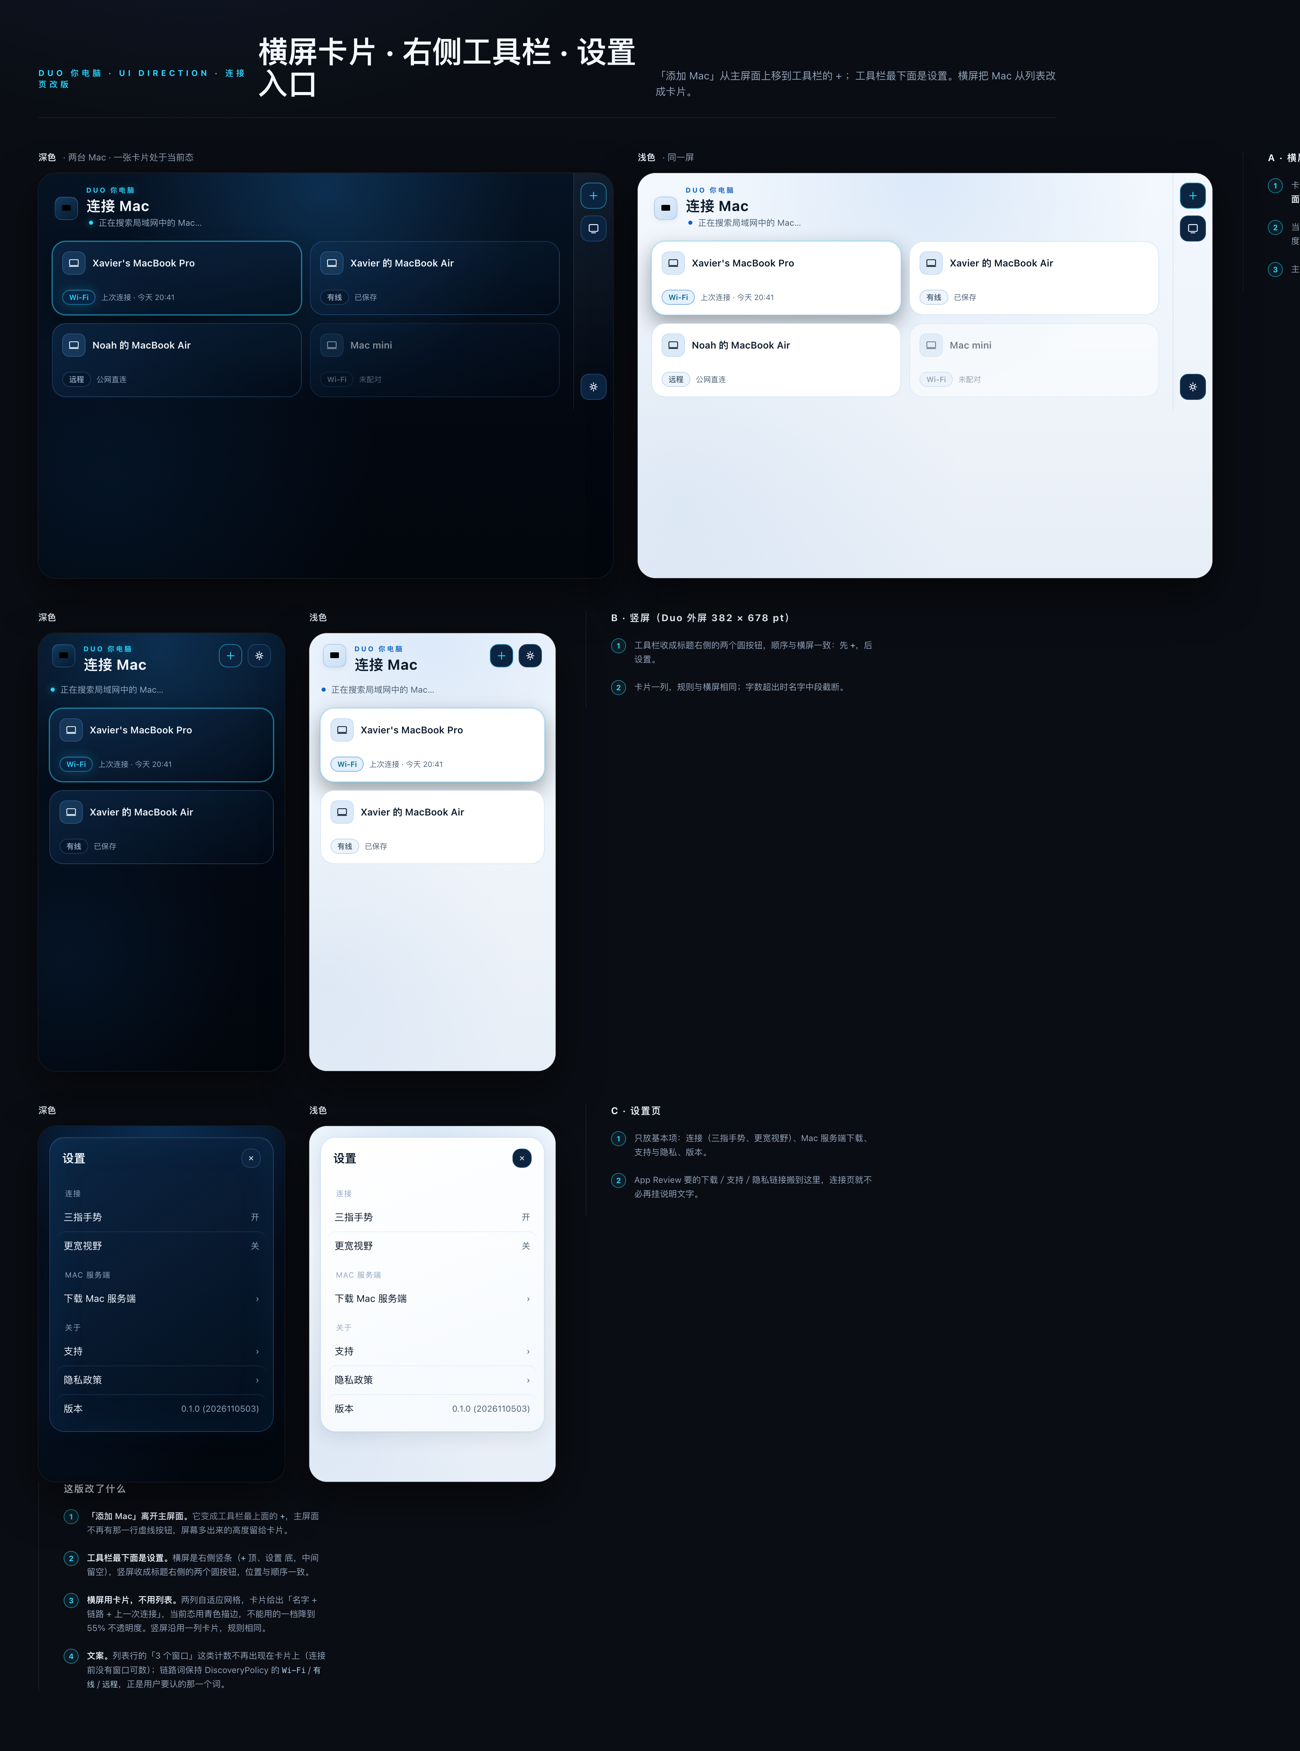
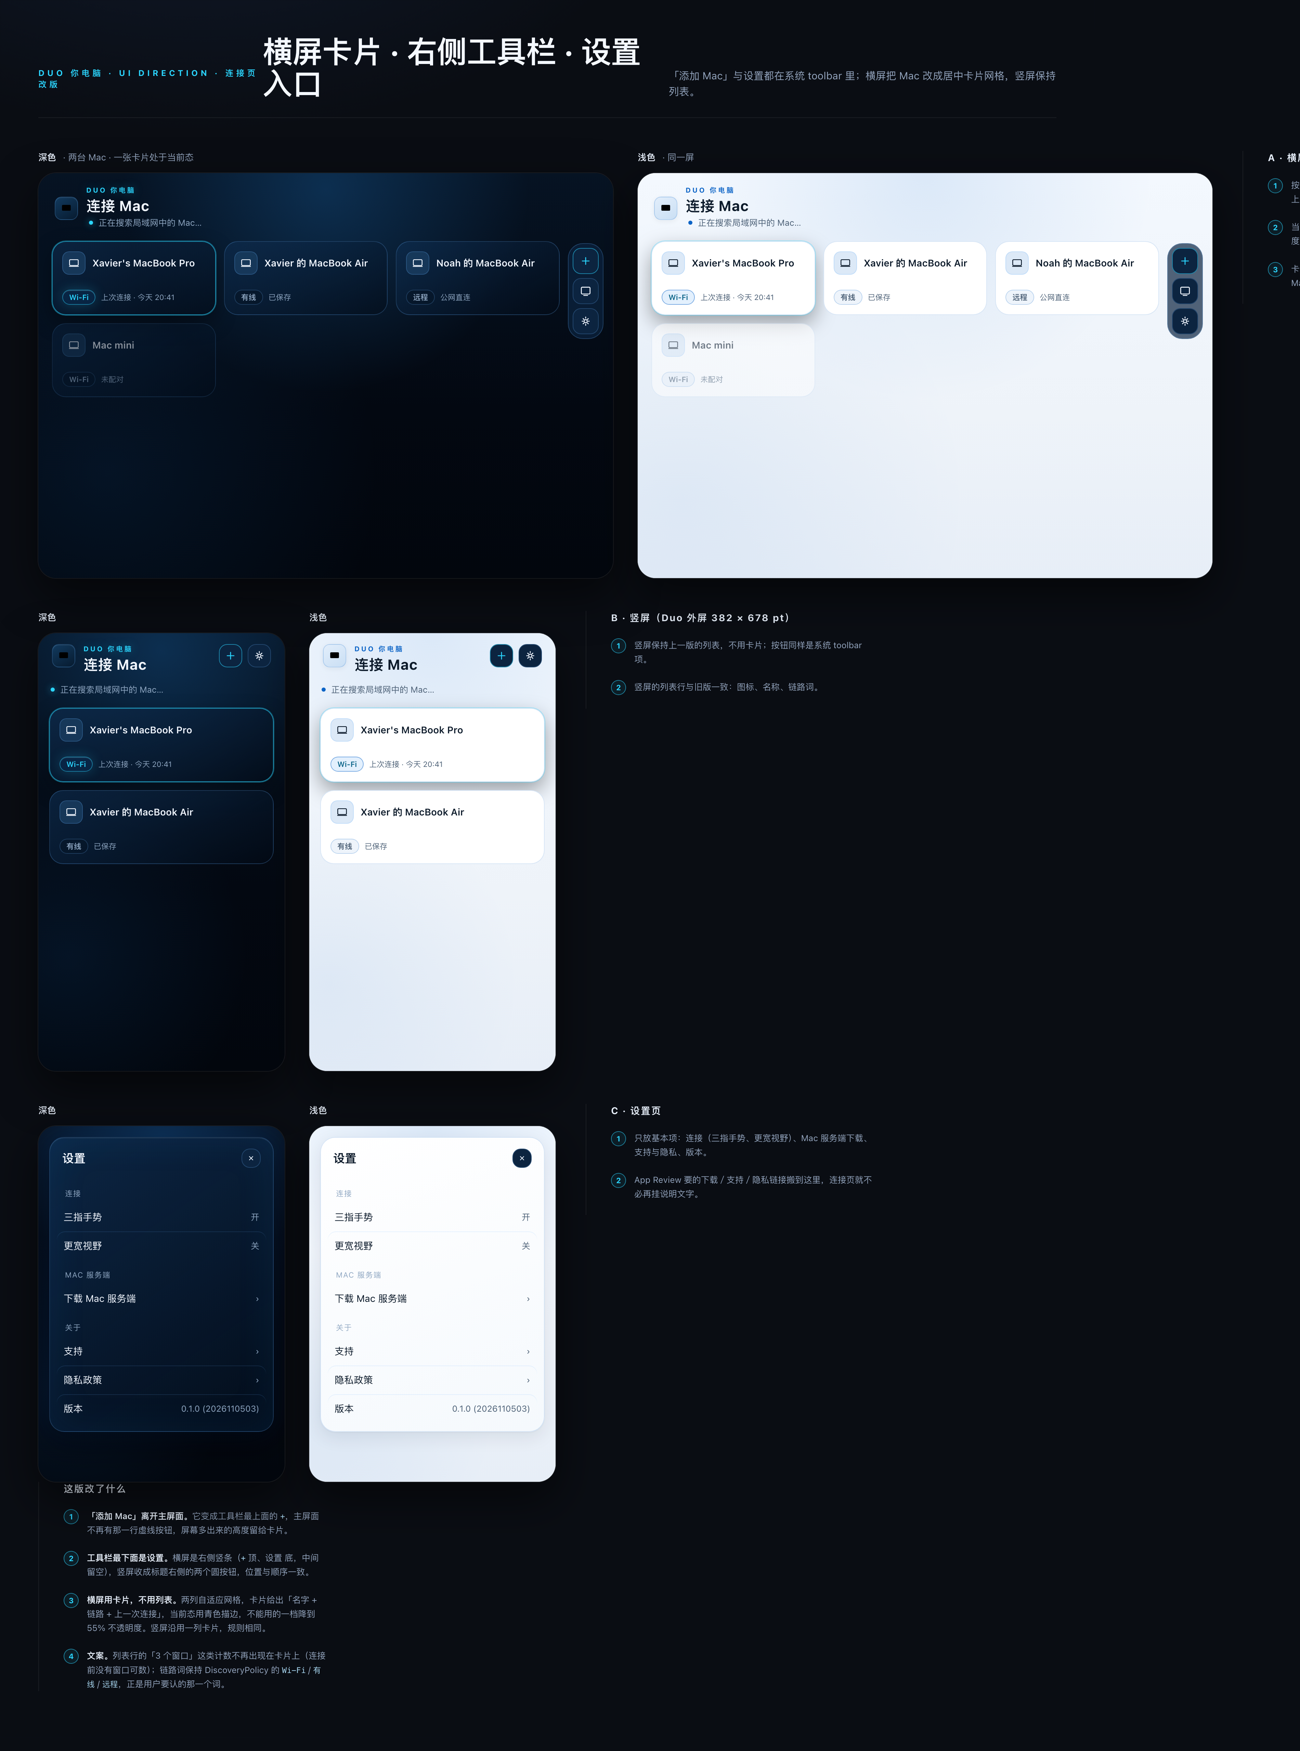
Landscape-only cards, and the buttons in the platform toolbar
Three corrections to the connect screen:

- Cards are landscape only. Upright keeps the list it has always had, one
  frosted row per Mac.
- Pairing and settings are toolbar items now, so the platform draws them —
  on iOS 27 a floating capsule on the trailing edge. The custom strip beside
  the content is gone: it was a second sidebar next to the system one.
- The grid is centred and capped at 900 pt, three cards across (four on a
  wide screen) instead of two cards stretched across the display.

The settings sheet gains the one preference that really is per-device — the
frame rate this device asks for. Quality and resolution stay the Mac's, set
from the stream screen's panel, and the sheet says so.

diff --git a/iOSClient/ContentView.swift b/iOSClient/ContentView.swift
@@ -963,6 +963,7 @@ struct ConnectScreen: View {
     private static let linkReach: CGFloat = 14
 
     var body: some View {
+        NavigationStack {
         GeometryReader { geo in
             let posture = DuoPosture.read(geo, duoEnvironment)
             let layout = ConnectLayout(size: geo.size, fold: posture.info(in: geo.size))
@@ -977,7 +978,6 @@ struct ConnectScreen: View {
             // keeps its header and foot. One scroll view whatever the fit, so a fit that changes
             // (the card's words folding while a field has the keyboard, a row more) never builds
             // the column anew: the card keeps its fields and its camera.
-            HStack(spacing: 0) {
             VStack(spacing: 0) {
                 ScrollView(.vertical) {
                     ColumnOverFooter(
@@ -996,7 +996,7 @@ struct ConnectScreen: View {
                             // Placed by its leading edge, not centred: the side-by-side card is wider
                             // than the rows, and centring it moved the title sideways as the card
                             // unfolded.
-                            .padding(.leading, layout.columnX)
+                            .padding(.leading, carded ? layout.columnX : layout.contentLeading)
                             .frame(maxWidth: .infinity, alignment: .leading)
                         // The footer's height, measured here; the one shown is the one below.
                         footer(layout)
@@ -1030,10 +1030,29 @@ struct ConnectScreen: View {
                         .accessibilityHidden(true)
                 }
             }
-            if layout.usesToolbarStrip { connectToolbar }
-            }
             .background(PageBackground())
             .duoLog(posture, size: geo.size, screen: "connect screen")
+            // Pairing and settings are toolbar items, as the platform draws them — not a
+            // strip of our own beside the content.
+            .toolbar {
+                ToolbarItemGroup(placement: .topBarTrailing) {
+                    Button(action: unfold) {
+                        Image(systemName: "plus")
+                            .font(.system(size: 16, weight: .semibold))
+                    }
+                    .accessibilityLabel("添加 Mac")
+                    .accessibilityHint("使用 Mac 上的配对码建立连接")
+
+                    Button { showSettings = true } label: {
+                        Image(systemName: "gearshape")
+                            .font(.system(size: 16, weight: .medium))
+                    }
+                    .accessibilityLabel("设置")
+                }
+            }
+            .toolbarBackground(.hidden, for: .navigationBar)
+            .navigationBarTitleDisplayMode(.inline)
+        }
         }
         .ignoresSafeArea(.keyboard, edges: .bottom)
         .sheet(isPresented: $showSettings) {
@@ -1109,13 +1128,6 @@ struct ConnectScreen: View {
                         .accessibilityAddTraits(.isHeader)
                         .accessibilityFocused($titleFocused)
                 }
-                if !carded && client.pendingLink == nil && !layout.usesToolbarStrip {
-                    Spacer(minLength: 8)
-                    HStack(spacing: 8) {
-                        addMacButton(34)
-                        settingsButton(34)
-                    }
-                }
             }
             .padding(.horizontal, 10)
             .padding(.bottom, carded ? 0 : 8)
@@ -1172,27 +1184,46 @@ struct ConnectScreen: View {
             .accessibilityHint("打开 App Store。")
         }
 
-        LazyVGrid(columns: Array(repeating: GridItem(.flexible(), spacing: 12),
-                                 count: layout.cardColumns),
-                  spacing: 12) {
-        ForEach(client.macs) { mac in
-            // The kind of link, never the Wi-Fi network's name: that needs Location access, which
-            // Sill does not ask for (DiscoveryPolicy.method); "Remote" for a saved Mac dialed away
-            // from home; at home, what a tap does first when it pairs ("Not paired", "Wired" over
-            // the cable) or cannot connect ("Update Sill"), with VoiceOver's label and hint for it
-            // (DiscoveryPolicy.RowWord). The row a tap's ask is waiting on is lit, as the drawer
-            // lights the app on screen, while the status line says "Pairing with…".
-            MacCard(name: mac.name, word: mac.word,
-                    saved: mac.macID.map { client.savedMac($0) != nil } ?? false,
-                    highlighted: client.homeAsk.map { $0.phase == .asking && $0.target.row == mac.id } ?? false,
-                    dimmed: mac.macID == nil,
-                    action: { client.connect(to: mac) })
-                .accessibilityElement(children: .ignore)
-                .accessibilityLabel(mac.rowAccessibilityLabel)
-                .accessibilityHint(mac.rowAccessibilityHint(device: device))
-                .accessibilityAddTraits(.isButton)
-                .contextMenu { menu(for: mac) }
-        }
+        if layout.landscape {
+            // Landscape: cards, centred, a few across (the design draft's grid).
+            LazyVGrid(columns: Array(repeating: GridItem(.flexible(), spacing: 12),
+                                     count: layout.cardColumns),
+                      spacing: 12) {
+                ForEach(client.macs) { mac in
+                    MacCard(name: mac.name, word: mac.word,
+                            saved: mac.macID.map { client.savedMac($0) != nil } ?? false,
+                            highlighted: client.homeAsk.map { $0.phase == .asking && $0.target.row == mac.id } ?? false,
+                            dimmed: mac.macID == nil,
+                            action: { client.connect(to: mac) })
+                        .accessibilityElement(children: .ignore)
+                        .accessibilityLabel(mac.rowAccessibilityLabel)
+                        .accessibilityHint(mac.rowAccessibilityHint(device: device))
+                        .accessibilityAddTraits(.isButton)
+                        .contextMenu { menu(for: mac) }
+                }
+            }
+        } else {
+            // Upright: the list it has always been — one row per Mac in the frosted panel.
+            VStack(spacing: 2) {
+                ForEach(client.macs) { mac in
+                    DrawerRow(height: 50, highlighted: client.homeAsk.map { $0.phase == .asking && $0.target.row == mac.id } ?? false,
+                              title: mac.name, trailing: mac.word,
+                              action: { client.connect(to: mac) }) {
+                        ZStack {
+                            RoundedRectangle(cornerRadius: 9, style: .continuous).fill(Palette.iconFallback)
+                            Image(systemName: "desktopcomputer")
+                                .font(.system(size: 16))
+                                .foregroundStyle(.white)
+                        }
+                        .frame(width: 32, height: 32)
+                    }
+                    .accessibilityLabel(mac.rowAccessibilityLabel)
+                    .accessibilityHint(mac.rowAccessibilityHint(device: device))
+                    .contextMenu { menu(for: mac) }
+                }
+            }
+            .padding(6)
+            .glassPanel(22)
         }
 
         if client.showsNearbyHint {
@@ -1228,62 +1259,6 @@ struct ConnectScreen: View {
             }
         }
 
-    }
-
-    /// The toolbar's +: pairing lives off the main surface now (design/deep-blue-ui/connect-redesign.html).
-    private func addMacButton(_ size: CGFloat = 38) -> some View {
-        Button(action: unfold) {
-            Image(systemName: "plus")
-                .font(.system(size: 16, weight: .semibold))
-                .foregroundStyle(Palette.accent)
-                .frame(width: size, height: size)
-                .background(RoundedRectangle(cornerRadius: 12, style: .continuous).fill(Palette.control))
-                .overlay {
-                    RoundedRectangle(cornerRadius: 12, style: .continuous)
-                        .strokeBorder(Palette.stroke, lineWidth: 1)
-                }
-                .contentShape(RoundedRectangle(cornerRadius: 12, style: .continuous))
-        }
-        .buttonStyle(.plain)
-        .accessibilityLabel("添加 Mac")
-        .accessibilityHint("使用 Mac 上的配对码建立连接")
-    }
-
-    /// The toolbar's settings button, at the far end from the +.
-    private func settingsButton(_ size: CGFloat = 38) -> some View {
-        Button { showSettings = true } label: {
-            Image(systemName: "gearshape")
-                .font(.system(size: 16, weight: .medium))
-                .foregroundStyle(Palette.text)
-                .frame(width: size, height: size)
-                .background(RoundedRectangle(cornerRadius: 12, style: .continuous).fill(Palette.control))
-                .overlay {
-                    RoundedRectangle(cornerRadius: 12, style: .continuous)
-                        .strokeBorder(Palette.stroke, lineWidth: 1)
-                }
-                .contentShape(RoundedRectangle(cornerRadius: 12, style: .continuous))
-        }
-        .buttonStyle(.plain)
-        .accessibilityLabel("设置")
-    }
-
-    /// Landscape: a vertical strip down the trailing edge, + at the top and settings at the
-    /// bottom, the way the design draft lays it out.
-    private var connectToolbar: some View {
-        VStack(spacing: 10) {
-            addMacButton()
-            Spacer(minLength: 0)
-            settingsButton()
-        }
-        .padding(.vertical, 14)
-        .frame(width: 58)
-        .background {
-            LinearGradient(colors: [Palette.strokeSoft, .clear],
-                           startPoint: .top, endPoint: .bottom).opacity(0.5)
-                .overlay(alignment: .leading) {
-                    Rectangle().fill(Palette.divider).frame(width: 1)
-                }
-        }
     }
 
     private var connectionStatus: String {

diff --git a/design/deep-blue-ui/connect-redesign.html b/design/deep-blue-ui/connect-redesign.html
@@ -10,13 +10,15 @@
   .sheet .mocks { align-items: flex-start; }
 
   .cn { position: relative; display: flex; overflow: hidden; }
-  .cn-main { flex: 1; min-width: 0; padding: 18px 20px; display: flex; flex-direction: column; gap: 14px; }
+  .cn-main { flex: 1; min-width: 0; padding: 18px 20px; padding-right: 78px; display: flex; flex-direction: column; gap: 14px; }
+  /* 系统工具栏：右侧悬浮胶囊，不占版面、也不自己造一条侧边栏 */
   .cn-toolbar {
-    flex: none; width: 58px; display: flex; flex-direction: column; align-items: center;
-    gap: 10px; padding: 14px 0; border-left: 1px solid var(--stroke-soft, rgba(105,180,255,.14));
-    background: linear-gradient(180deg, rgba(255,255,255,.05), rgba(255,255,255,0));
+    position: absolute; right: 14px; top: 50%; transform: translateY(-50%);
+    display: flex; flex-direction: column; align-items: center; gap: 6px; padding: 6px;
+    border-radius: 22px; background: color-mix(in srgb, var(--chip, #0C2440) 70%, transparent);
+    border: 1px solid var(--stroke, rgba(105,180,255,.24));
+    backdrop-filter: blur(18px) saturate(1.1); -webkit-backdrop-filter: blur(18px) saturate(1.1);
   }
-  .screen.light .cn-toolbar { border-left-color: rgba(11,99,198,.12); }
 
   .tool {
     width: 38px; height: 38px; border-radius: 12px; display: grid; place-items: center;
@@ -26,9 +28,9 @@
   .tool svg { width: 17px; height: 17px; fill: none; stroke: currentColor; stroke-width: 1.9; stroke-linecap: round; }
   .tool.accent { color: var(--cyan, #2BD6FF); border-color: color-mix(in srgb, var(--cyan, #2BD6FF) 55%, transparent); }
   .tool.spacer { visibility: hidden; }
-  .cn-toolbar .push { margin-top: auto; }
+  .cn-toolbar .push { margin-top: 0; }
 
-  .cn-grid { display: grid; grid-template-columns: repeat(2, minmax(0, 1fr)); gap: 12px; }
+  .cn-grid { display: grid; grid-template-columns: repeat(3, minmax(0, 1fr)); gap: 12px; }
   .cn-grid.one { grid-template-columns: minmax(0, 1fr); }
 
   .mac-card {
@@ -74,7 +76,7 @@
 <div class="board-head">
   <div class="board-kicker">DUO 你电脑 · UI DIRECTION · 连接页改版</div>
   <h1>横屏卡片 · 右侧工具栏 · 设置入口</h1>
-  <div class="board-sub">「添加 Mac」从主屏面上移到工具栏的 + ；工具栏最下面是设置。横屏把 Mac 从列表改成卡片。</div>
+  <div class="board-sub">「添加 Mac」与设置都在系统 toolbar 里；横屏把 Mac 改成居中卡片网格，竖屏保持列表。</div>
 </div>
 
 <!-- A：横屏（Duo 内屏） -->
@@ -189,9 +191,9 @@
     </div>
   <aside class="notes">
     <h2>A · 横屏（Duo 内屏 951 × 669 pt）</h2>
-    <div class="note"><span class="pin">1</span><p>卡片两列自适应，右侧 58 pt 竖工具栏：<code>+</code> 在顶、<b>设置在最下面</b>，中间空着。</p></div>
+    <div class="note"><span class="pin">1</span><p>按钮走系统 toolbar（右侧悬浮胶囊），不额外造侧边栏；<code>+</code> 在上、设置在下。</p></div>
     <div class="note"><span class="pin">2</span><p>当前态用青色描边 + 外发光；未配对的一档降到 55% 不透明度，仍可点。</p></div>
-    <div class="note"><span class="pin">3</span><p>主屏面不再有「添加 Mac」那一行虚线按钮。</p></div>
+    <div class="note"><span class="pin">3</span><p>卡片收窄、整体居中：三列，宽屏四列；主屏面不再有「添加 Mac」那一行虚线按钮。</p></div>
   </aside>
 </div>
 
@@ -277,8 +279,8 @@
     </div>
   <aside class="notes">
     <h2>B · 竖屏（Duo 外屏 382 × 678 pt）</h2>
-    <div class="note"><span class="pin">1</span><p>工具栏收成标题右侧的两个圆按钮，顺序与横屏一致：先 <code>+</code>，后设置。</p></div>
-    <div class="note"><span class="pin">2</span><p>卡片一列，规则与横屏相同；字数超出时名字中段截断。</p></div>
+    <div class="note"><span class="pin">1</span><p>竖屏保持上一版的列表，不用卡片；按钮同样是系统 toolbar 项。</p></div>
+    <div class="note"><span class="pin">2</span><p>竖屏的列表行与旧版一致：图标、名称、链路词。</p></div>
   </aside>
 </div>
 

diff --git a/iOSClient/AppSettingsView.swift b/iOSClient/AppSettingsView.swift
@@ -16,12 +16,30 @@ struct AppSettingsView: View {
     @AppStorage(StreamClient.gesturesKey) private var gesturesOn = true
     @AppStorage(StreamClient.largerPictureKey) private var largerPicture = false
     @AppStorage(StreamClient.clipboardKey) private var clipboardOn = true
+    /// What this device asks the Mac for; the Mac's own cap still applies.
+    @AppStorage(DuoStreamPolicy.preferredFPSKey) private var preferredFPS = DuoStreamPolicy.defaultFPS
 
     var body: some View {
         NavigationStack {
             ScrollView {
                 VStack(alignment: .leading, spacing: 18) {
                     group("连接") {
+                        HStack {
+                            Text("首选帧率")
+                                .foregroundStyle(Palette.text)
+                            Spacer(minLength: 8)
+                            Picker("首选帧率", selection: $preferredFPS) {
+                                Text("60").tag(60)
+                                Text("120").tag(120)
+                            }
+                            .pickerStyle(.segmented)
+                            .labelsHidden()
+                            .frame(width: 132)
+                        }
+                        .font(.system(size: 15))
+                        .padding(.horizontal, 14)
+                        .padding(.vertical, 9)
+                        divider
                         row {
                             Toggle("三指手势", isOn: $gesturesOn)
                         }
@@ -34,7 +52,7 @@ struct AppSettingsView: View {
                             Toggle("共享剪贴板", isOn: $clipboardOn)
                         }
                         divider
-                        note("手势与画面选项跟随这台设备，换一台 Mac 也生效。")
+                        note("这些偏好跟随这台设备，换一台 Mac 也生效。画质与分辨率属于 Mac，在串流页的设置面板里调。")
                     }
 
                     if SillLinks.download != nil {

diff --git a/iOSClient/AddMacCard.swift b/iOSClient/AddMacCard.swift
@@ -36,19 +36,19 @@ struct ConnectLayout {
     /// field has the keyboard.
     var compactPortrait: Bool { size.height > size.width && size.width < 600 }
 
-    /// Landscape (the Duo's inner display, or a phone on its side): Macs are cards in a grid and
-    /// the toolbar is a strip down the trailing edge (design/deep-blue-ui/connect-redesign.html).
+    /// Landscape (the Duo's inner display, or a phone on its side): Macs are cards in a
+    /// centred grid. Upright keeps the list.
     var landscape: Bool { size.width > size.height }
-    /// How many cards fit across. Two in landscape; one upright.
-    var cardColumns: Int { landscape ? (size.width >= 1180 ? 3 : 2) : 1 }
-    /// The trailing toolbar strip needs room for the cards beside it.
-    var usesToolbarStrip: Bool { landscape && size.width >= 640 }
-    /// The grid's width: the column's, widened in landscape to the screen less the toolbar
-    /// strip and the same margins, so the cards fill the surface instead of a 380 pt strip.
-    var gridWidth: CGFloat {
-        guard landscape else { return columnWidth }
-        let strip: CGFloat = usesToolbarStrip ? 58 : 0
-        return max(columnWidth, size.width - strip - columnX - 24)
+    /// Three cards across, four on a wide screen: the cards stay near 200 pt instead of
+    /// stretching to whatever the display gives.
+    var cardColumns: Int { landscape ? (size.width >= 1100 ? 4 : 3) : 1 }
+    /// The grid's width: centred, at most 900 pt, so the field of cards does not spread to
+    /// the screen's edges.
+    var gridWidth: CGFloat { min(size.width - 48, 900) }
+    /// Where a centred column starts. Landscape centres the grid; upright keeps the
+    /// design's 380 pt column where it always sat.
+    var contentLeading: CGFloat {
+        landscape ? max(12, (size.width - gridWidth) / 2) : columnX
     }
 }
 
